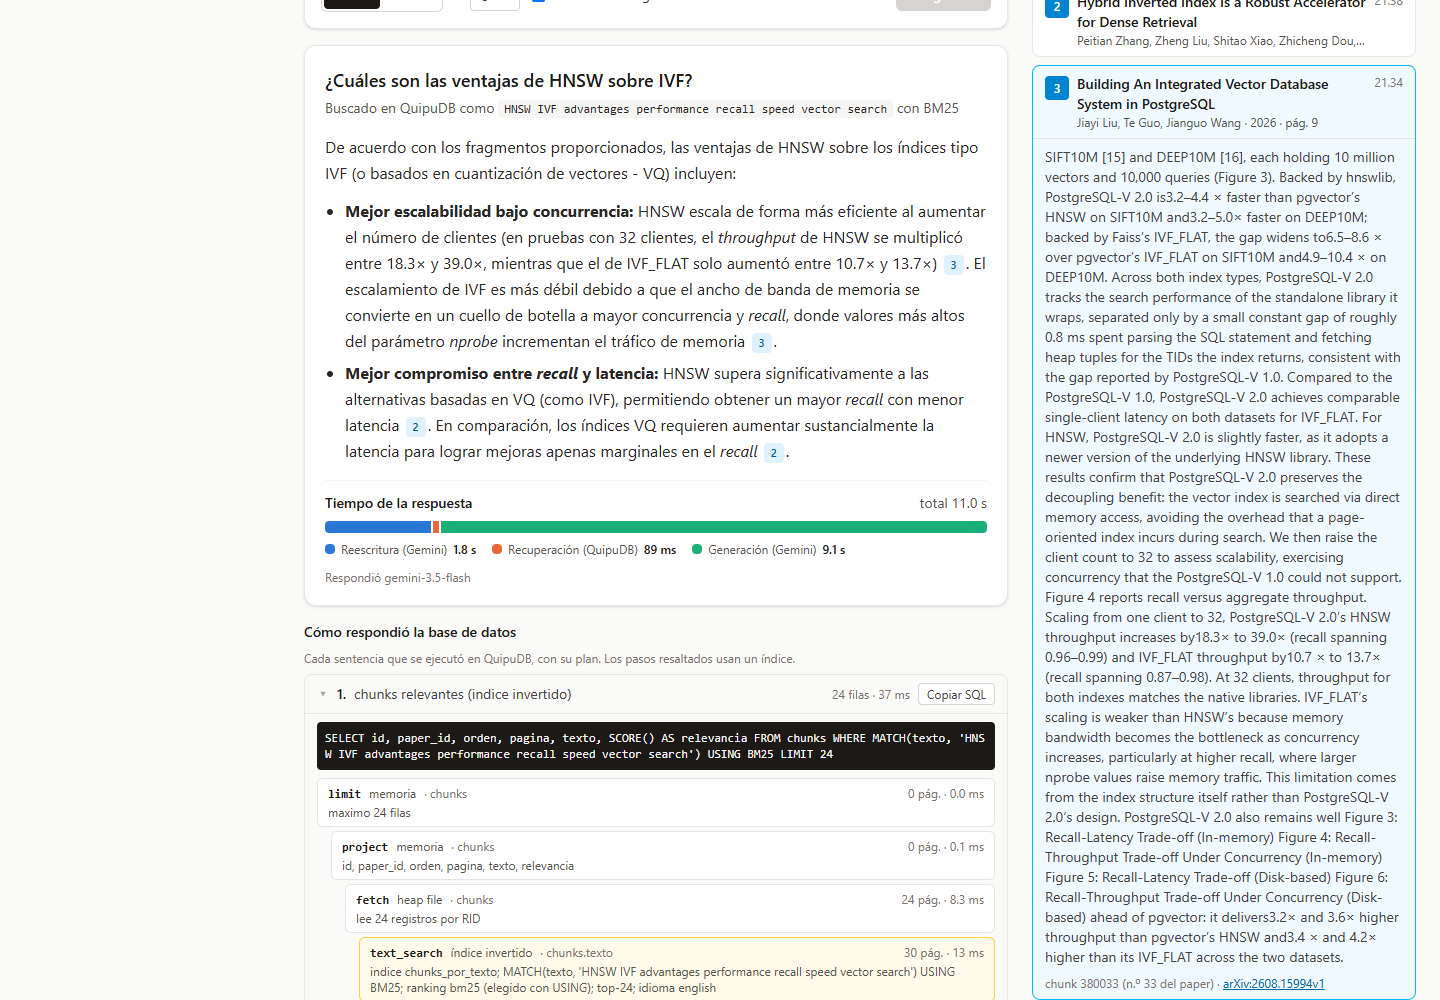
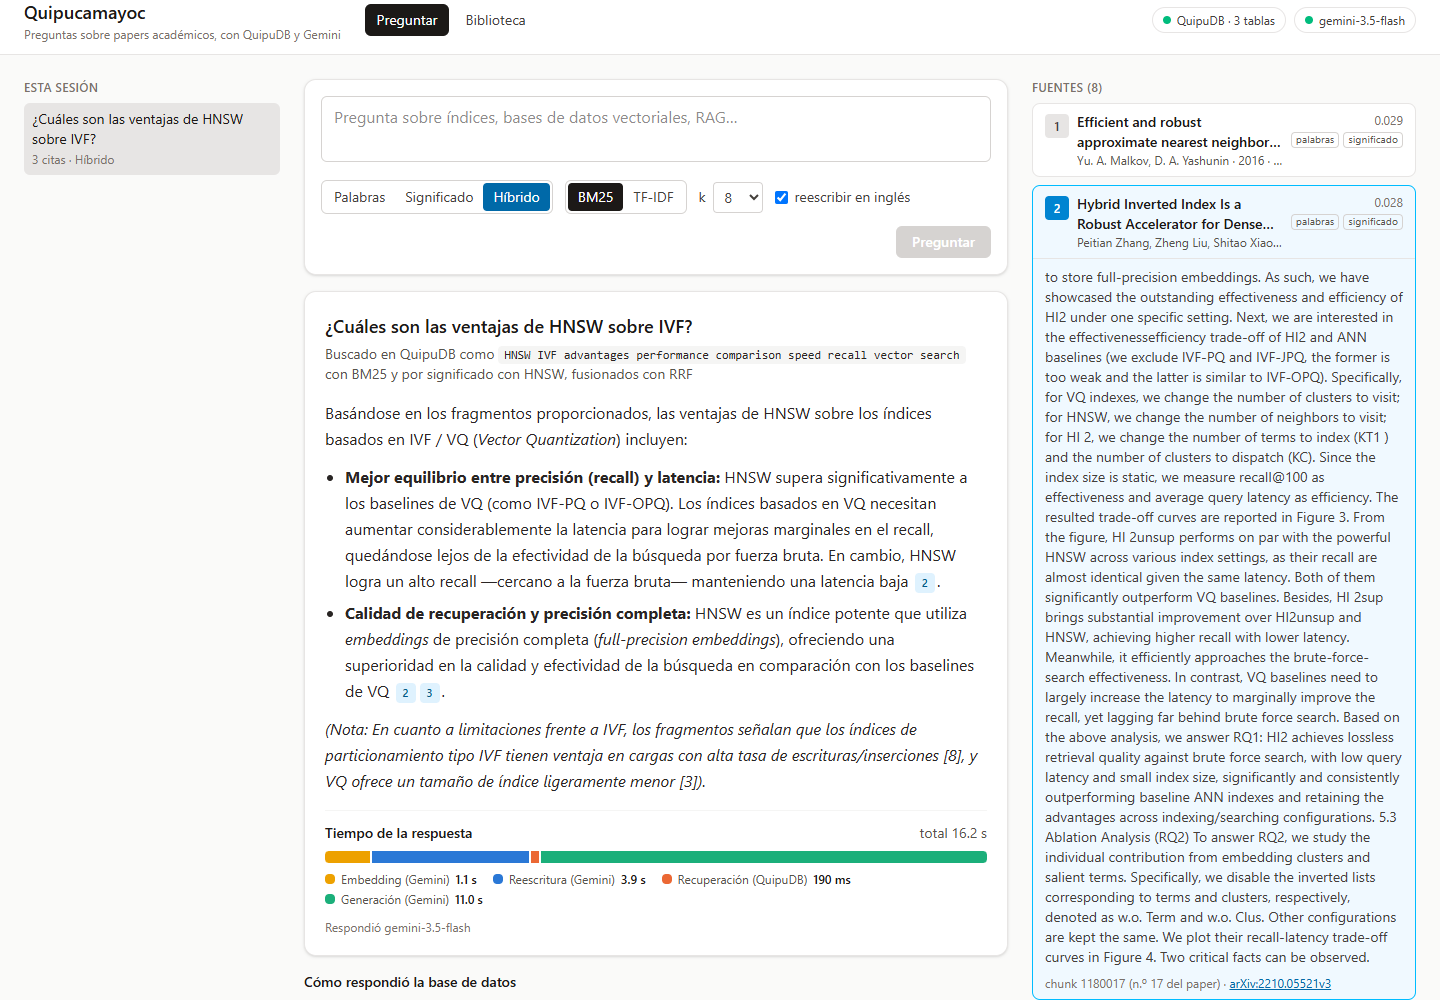
docs: actualizar las capturas de quipucamayoc con el modo hibrido

Changed region(s): [[0.0, 0.0, 0.6875, 0.992], [0.7188, 0.0, 0.9688, 0.992], [0.625, 0.0, 0.6875, 0.031]]

diff --git a/docs/informe/aplicacion_rag.md b/docs/informe/aplicacion_rag.md
@@ -121,20 +121,39 @@ qué búsqueda la encontró.
 
 ## Interfaz
 
-![Respuesta con citas, tiempos y el SQL ejecutado con su plan](capturas/quipucamayoc/respuesta.png)
+![Respuesta en modo híbrido, con el origen de cada fuente, los tiempos y el SQL ejecutado con su plan](capturas/quipucamayoc/respuesta.png)
+
+Arriba se elige cómo buscar: *Palabras* (BM25 o TF-IDF), *Significado* (HNSW) o
+*Híbrido*, que es el modo por omisión cuando hay embeddings. Cada fuente lleva
+una etiqueta con la búsqueda que la encontró, *palabras*, *significado* o las
+dos, y su puntaje de RRF. La barra de tiempos separa el embedding de la
+pregunta, la reescritura, la recuperación en QuipuDB y la generación.
 
 La respuesta llega por etapas (`POST /ask/stream`): las fuentes aparecen
 mientras Gemini todavía escribe. Cada cita abre su fragmento:
 
 ![Una cita abre el fragmento que leyó Gemini](capturas/quipucamayoc/cita.png)
 
+Debajo, *Cómo respondió la base de datos* lista cada sentencia que se ejecutó
+en QuipuDB con su plan. En el modo híbrido son la búsqueda BM25, la del HNSW,
+el texto de los chunks que solo encontró el HNSW y los metadatos de cada paper,
+estos dos por hash. La del HNSW usa el índice `chunk_vectores_hnsw`, con
+`ef_search` = 64 y coseno, y tarda unos 3 ms en el motor:
+
+![El paso knn_search del HNSW, con el literal VECTOR recortado en la captura](capturas/quipucamayoc/sql-hnsw.png)
+
+En la interfaz, el literal `VECTOR(...)` tiene los 768 números de la pregunta;
+en la captura se recortó a tres líneas.
+
 La biblioteca filtra por rango de años con el B+ sobre `anio` (el plan muestra
-`index_range`) y permite agregar un PDF, que pasa por la misma ingesta:
+`index_range`) y permite agregar un PDF, que pasa por la misma ingesta y, si hay
+embeddings, también se embebe:
 
 ![Biblioteca filtrada por años](capturas/quipucamayoc/biblioteca.png)
 
-Los errores dicen quién falló. Con el motor apagado, Gemini alcanza a reescribir
-la pregunta y la interfaz señala a QuipuDB:
+Los errores dicen quién falló. Si el motor no responde, Gemini alcanza a
+reescribir la pregunta y la interfaz señala a QuipuDB. Además, sin motor no hay
+búsqueda vectorial, así que *Significado* e *Híbrido* quedan deshabilitados:
 
 ![Error del motor](capturas/quipucamayoc/error-motor.png)
 
